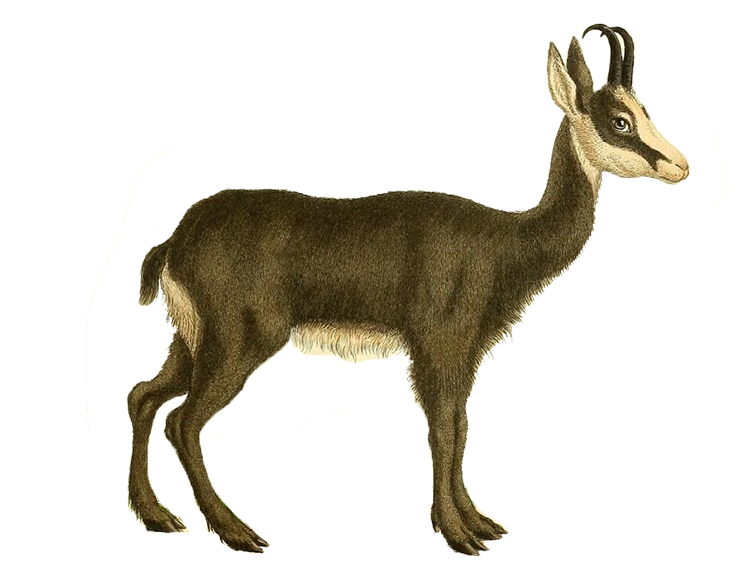
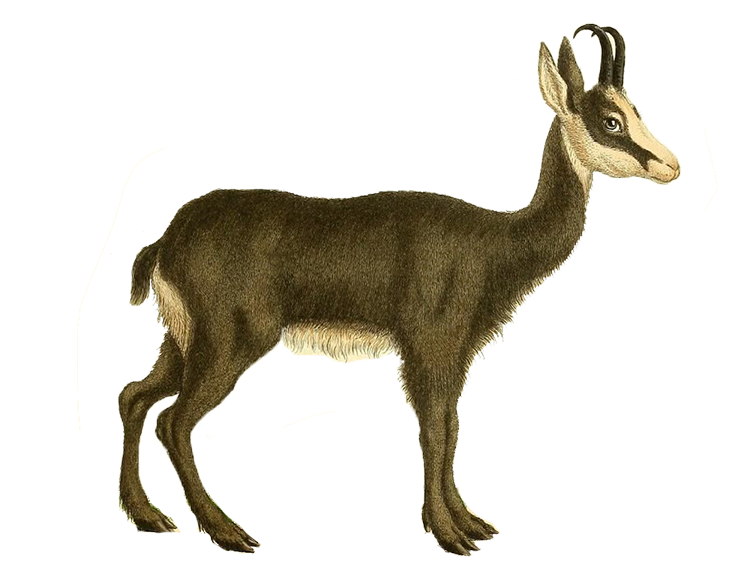
Update the dimensions of all animal images

diff --git a/src/containers/ToolsTab/profile_basic/DiscoverYourValues.js b/src/containers/ToolsTab/profile_basic/DiscoverYourValues.js
@@ -268,7 +268,7 @@ class DiscoverValueScreen extends React.Component {
                         <MCImage
                           image={value.image}
                           width={cardViewHeight * 0.5}
-                          height={250}
+                          height={cardViewHeight * 0.4}
                           resizeMode="contain"
                         />
                       )}
